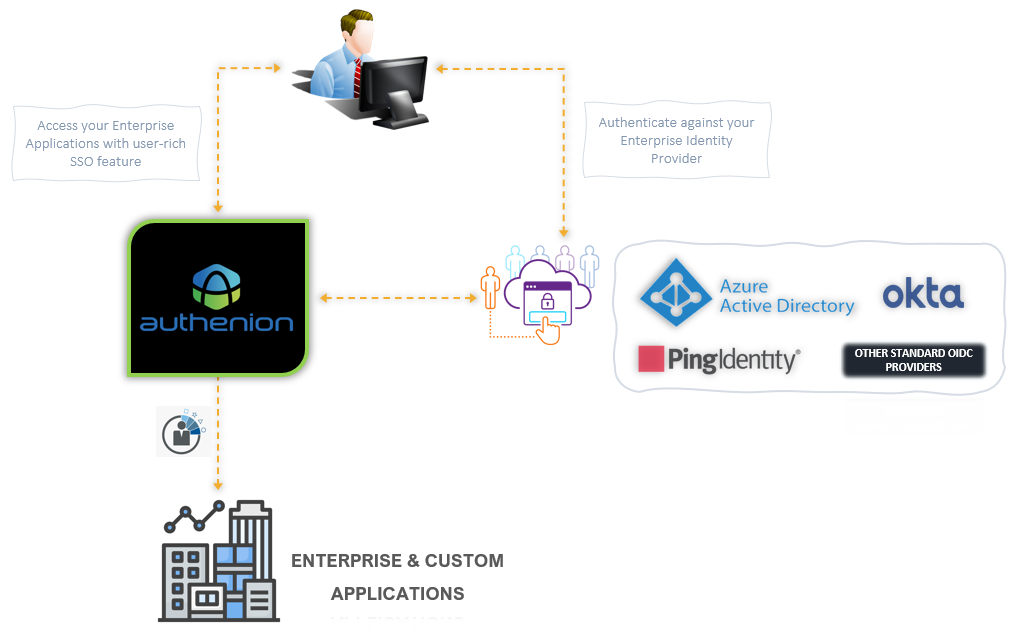
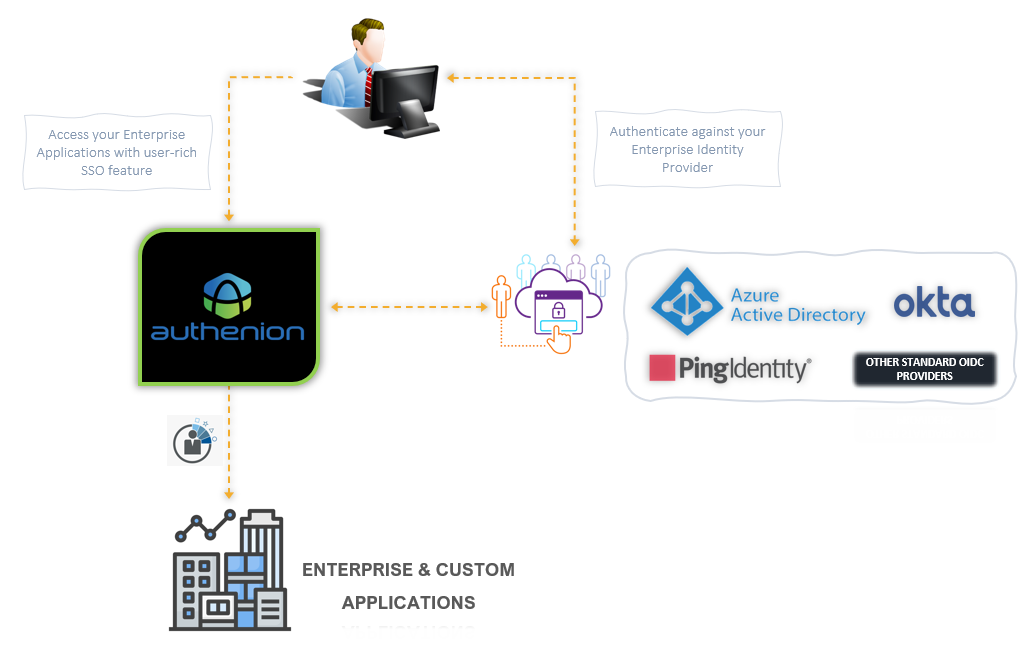
Updated intro and its diagram
updated with Sagar's comments

diff --git a/index.html b/index.html
@@ -516,7 +516,7 @@
 				<p class="col-para">This guide provides information about getting started with Authenion to deploy a secure and scalable platform to enable single sign-on (SSO) to your Enterprise applications based on the security and industry standards.</p>
 				<a style="padding:32px" name="Introduction"></a>
 				<p class="col-sub-headings">1. Introduction</p>
-				<p class="col-para">‘Authenion’ is one of LikeMinds’ major products delivering a secure Single Sign-On (SSO) solution for Enterprise applications like Oracle and other custom applications (java, php, .net, etc.,) that supports HTTP headers as their authentication mechanism. Authenion integrates with standard OpenID Connect providers in the market for authentication related events.</p>
+				<p class="col-para">The Authenion product from Like Minds is aimed towards delivering a secure Single Sign-On (SSO) experience for Enterprise applications from Oracle, IBM, SAP and other custom applications (java, php, .net, etc.,) that supports HTTP headers as their authentication mechanism. Authenion integrates with standard OpenID Connect providers in the market for authentication related events.</p>
 				<p class="col-para">Authenion links with market-standard OpenID Connect providers such as PingFederate, PingOne, Azure, Okta, Oracle IDCS and it connects with applications to securely send SSO-related information to the applications. Authenion enables secure access to your Enterprise applications and custom applications either on-premises or cloud. Authenion complements any other common industry standard token provider via OAuth2.0 & OpenID Connect-2.0 protocols.</p>
 				<!-- <img src="assets/img/authenion-intro.png" alt="" class="col-images-intro" /> -->
 
@@ -530,7 +530,7 @@
 <br>
 				<a style="padding:32px" name="Enterprise Deployement Model"></a>
 				<p class="col-sub-headings">2. Enterprise Deployment Model</p>
-				<p class="col-para">Authenion & your Identity Provider enable your Enterprise/Custom applications and its users experience a secure SSO solution by enforcing authentication standards to it. Together, they help achieve a seamless SSO login feature to its protected applications.</p>
+				<p class="col-para">Authenion & your Identity Provider enable your Enterprise/Custom applications and its users experience secure Single Sign-On by enforcing authentication standards to the applications. Together, they help achieve a seamless Single Sign-On feature to the protected applications.</p>
 				<p class="col-para">Authenion supports a Gateway architecture for its protected applications. In this model, the traffic is initially directed to Authenion. Authenion grants or denies access based on the application resources protection type.</p>
 				<!-- <ul class="col-para"> -->
 				<ul style="margin-left:30px;" class="col-para">
@@ -2334,7 +2334,7 @@ status page also displays your authenion license information. </p>
   <!-- ======= Footer ======= -->
   <footer id="footer" class="footer">
     <div class="copyright">
-      &copy; Copyright <strong><span>LikeMinds Consulting Inc</span></strong>. All Rights Reserved
+      &copy; Copyright <strong><span>Like Minds Consulting Inc</span></strong>. All Rights Reserved
     </div>
   </footer><!-- End Footer -->
 
